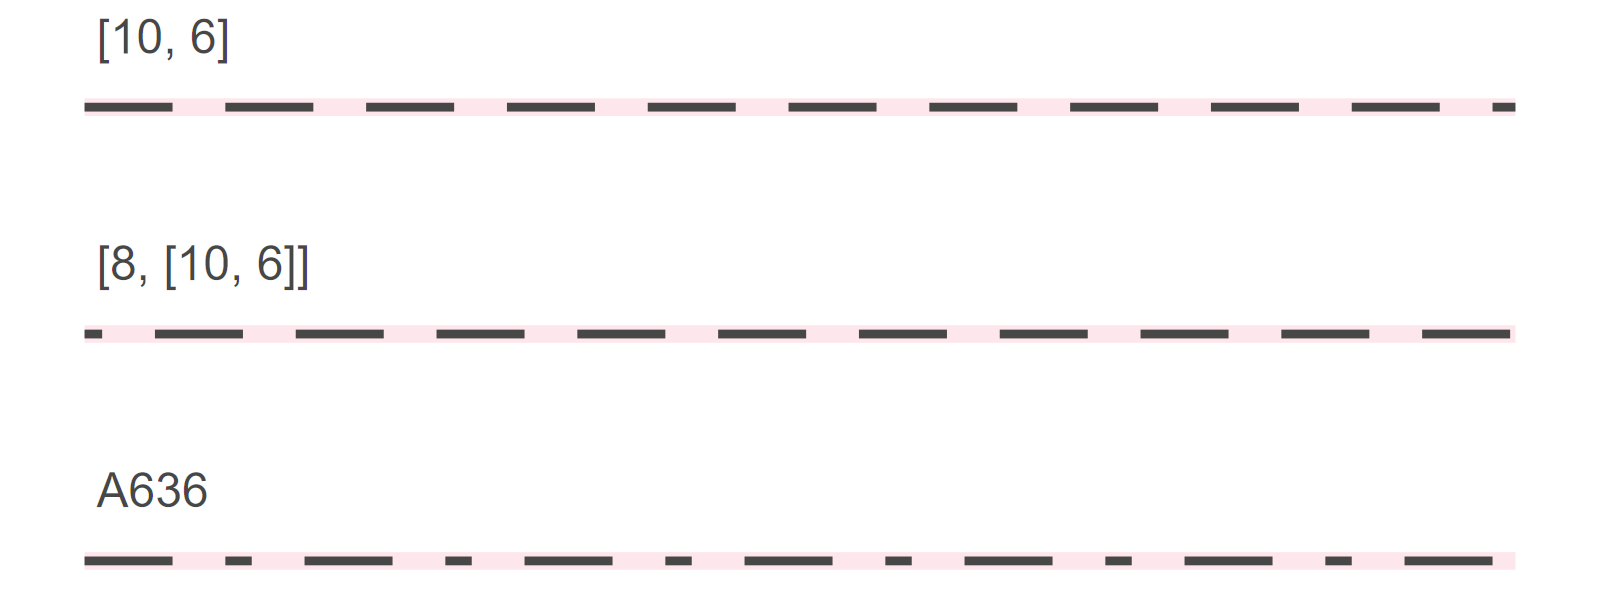
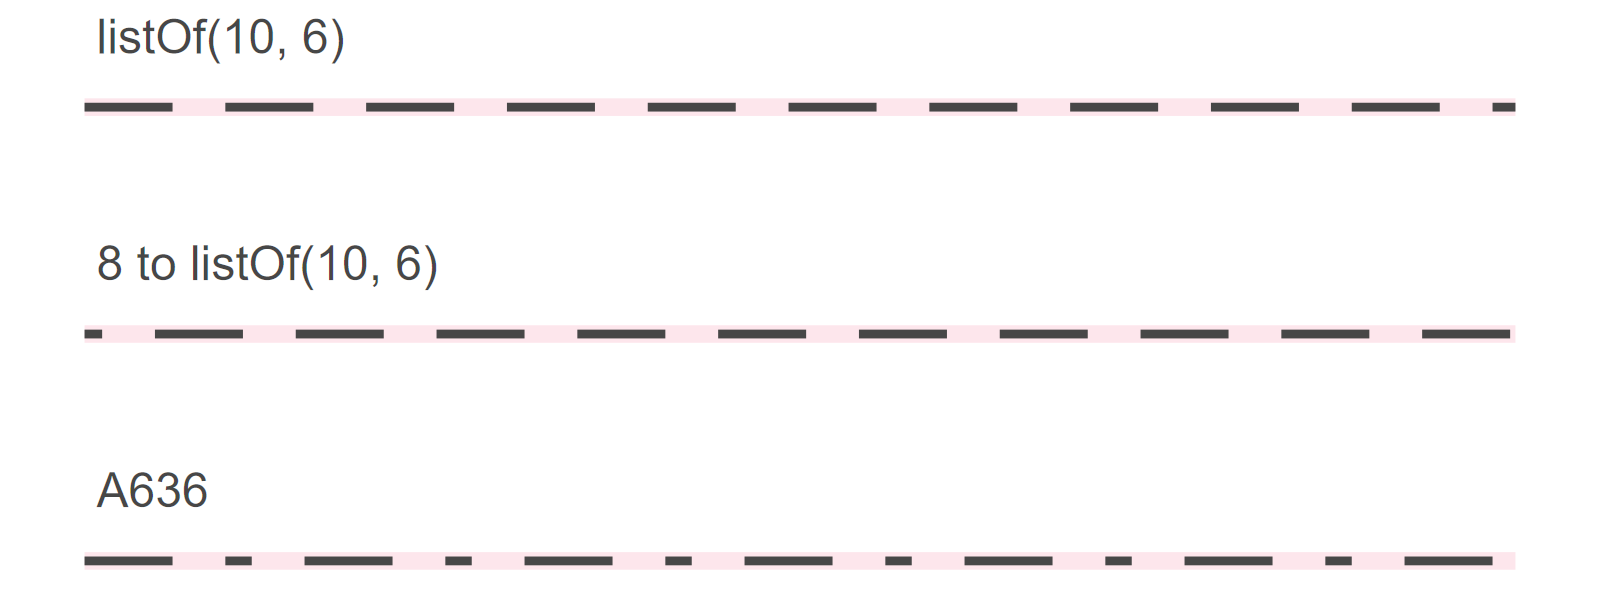
Writerside: Fix custom linetype examples on the aesthetics page.

Changed region(s): [[0.0625, 0.39, 0.2812, 0.48], [0.0625, 0.03, 0.2188, 0.12]]

diff --git a/Writerside/topics/aesthetics.md b/Writerside/topics/aesthetics.md
@@ -42,8 +42,8 @@ Colors and fills of geometries can be specified in the following ways:
 
 Ways to specify the `linetype`:
 
-- list, defining the pattern of dashes and gaps used to draw the line: `[dash, gap, ...]`;
-- list with specified offset: `[offset, [dash, gap, ...]]`;
+- list, defining the pattern of dashes and gaps used to draw the line: `listOf(dash, gap, ...)`;
+- pair of offset and pattern: `offset to listOf(dash, gap, ...)`;
 - string of an even number (up to eight) of hexadecimal digits which give the lengths in consecutive positions in the string.
 
 ![Custom line types](aesthetics_custom_linetype.png)
